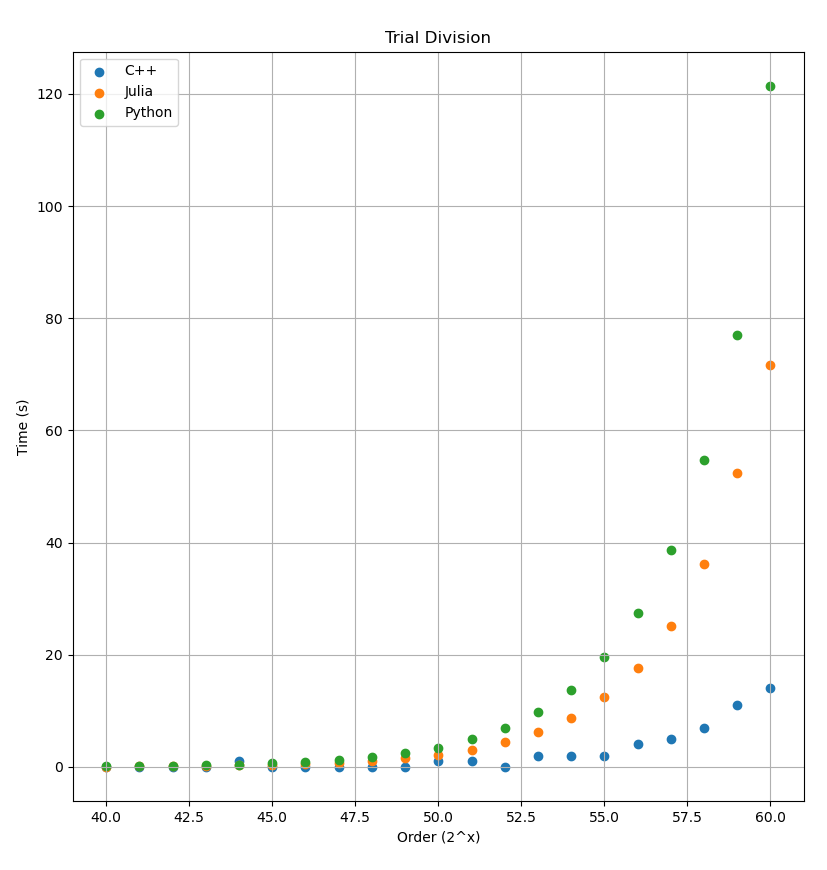
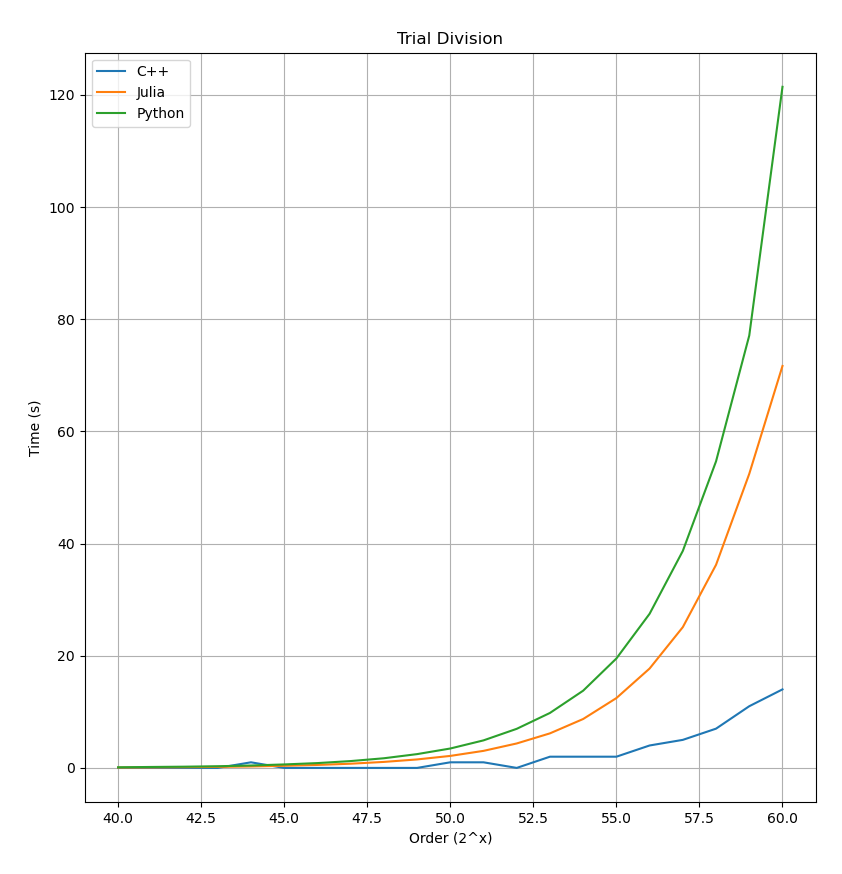
Tweaked trialDiv and Sieve

diff --git a/sievePlot.py b/sievePlot.py
@@ -1,22 +1,22 @@
 from pylab import *
 
-t = arange(40, 61)
-cpp = [0, 0, 0, 0, 1, 0, 0, 0, 0, 0, 1, 1, 0, 2, 2, 2, 4, 5, 7, 11, 14]
-julia = [0.064, 0.088, 0.13, 0.18, 0.26, 0.38, 0.53, 0.75, 1.07, 1.51, 2.14, 3.04, 4.36, 6.16, 8.72, 12.45, 17.72, 25.10, 36.21, 52.43, 71.66]
-python = [0.11, 0.17, 0.22, 0.30, 0.43, 0.62, 0.86, 1.22, 1.72, 2.46, 3.46, 4.91, 6.97, 9.80, 13.77, 19.51, 27.48, 38.69, 54.66, 77.09, 121.43]
+t = arange(10, 31)
+cpp = [0, 0, 0, 0, 0, 0, 0, 0, 0, 0, 0, 1, 0, 1, 2, 4, 9, 20, 41, 83, 173]
+julia = [0.000038, 0.000065, 0.00012, 0.00027, 0.00058, 0.0011, 0.0021, 0.0048, 0.0084, 0.018, 0.041, 0.094, 0.21, 0.61, 1.03, 2.05, 4.21, 9.77, 26.62, 76.77, 379.12]
+python = [0.00025, 0.00058, 0.0010, 0.0021, 0.0046, 0.009, 0.018, 0.038, 0.076, 0.16, 0.35, 0.76, 1.58, 3.44, 6.90, 14.43, 29.38, 59.28, 121.00, 266.12, 559.05]
 
 print(len(cpp))
 print(len(julia))
 print(len(python))
 
-scatter(t, cpp, label="C++")
-scatter(t, julia, label="Julia")
-scatter(t, python, label="Python")
+plot(t, cpp, label="C++")
+plot(t, julia, label="Julia")
+plot(t, python, label="Python")
 
 legend()
 xlabel("Order (2^x)")
 ylabel("Time (s)")
-title("Trial Division")
+title("Sieve of Eratosthenes")
 grid(True)
 legend()
 show()

diff --git a/trialDivPlot.py b/trialDivPlot.py
@@ -9,9 +9,9 @@ print(len(cpp))
 print(len(julia))
 print(len(python))
 
-scatter(t, cpp, label="C++")
-scatter(t, julia, label="Julia")
-scatter(t, python, label="Python")
+plot(t, cpp, label="C++")
+plot(t, julia, label="Julia")
+plot(t, python, label="Python")
 
 legend()
 xlabel("Order (2^x)")
